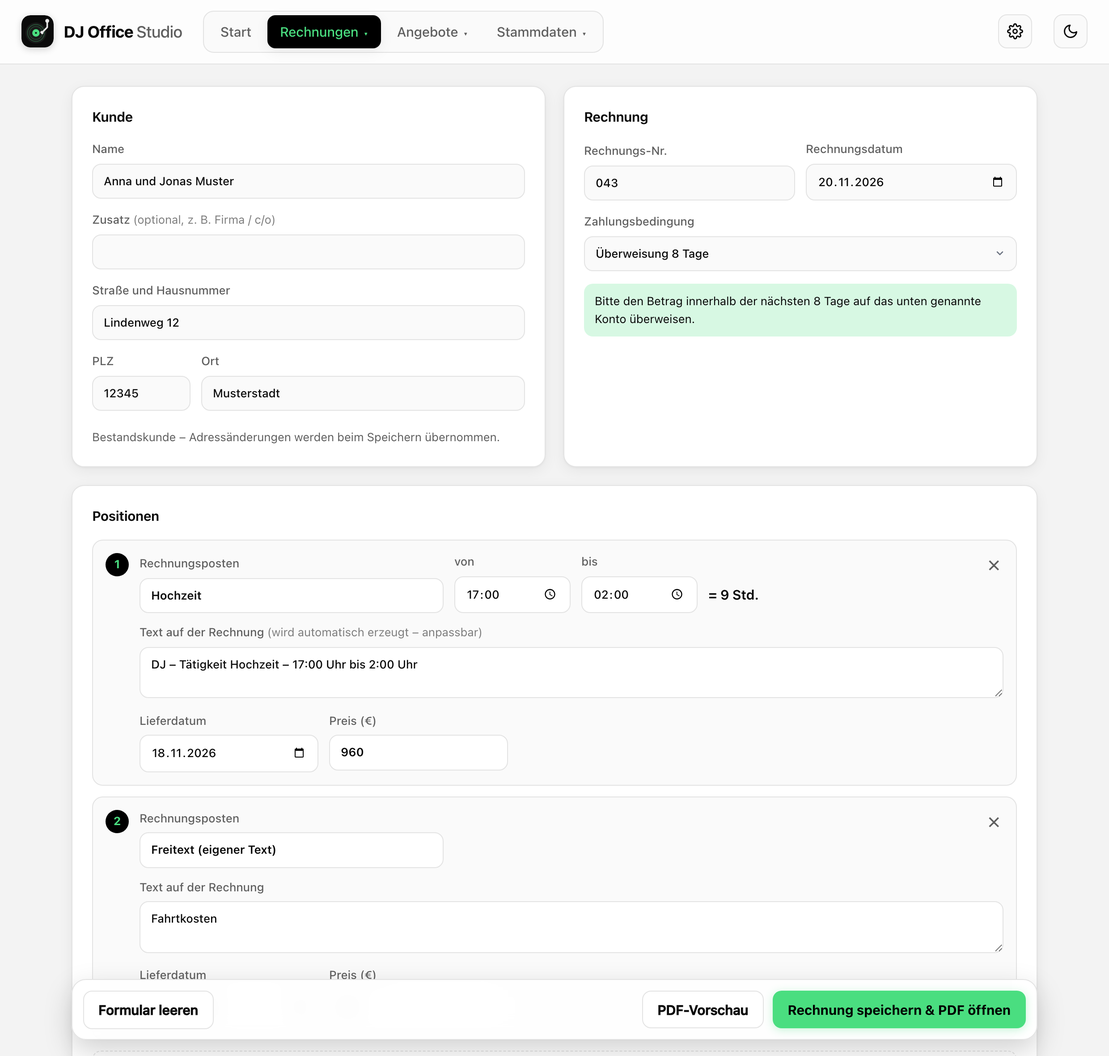
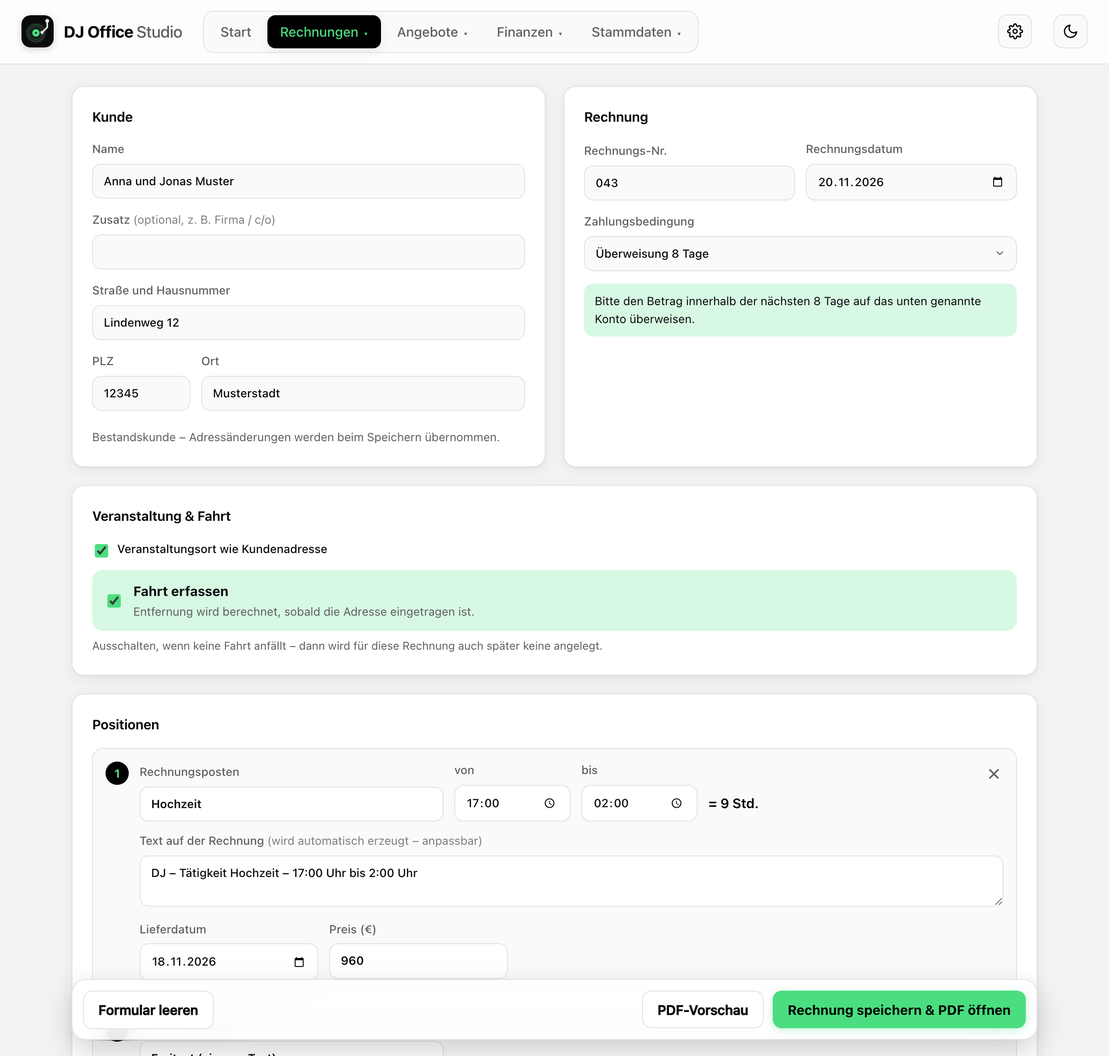
Version 1.1.0: Finanzen – Sicherung mit Belegen, README mit Finanzen-Bildern, Changelog

diff --git a/rechnungen/app/static/index.html b/rechnungen/app/static/index.html
@@ -470,7 +470,7 @@
           <div class="grid2 sicherung">
             <div>
               <strong>Sicherung</strong>
-              <p class="hint">Alle Daten – Kunden, Rechnungen, Angebote, Mahnungen, Einstellungen – in einer Datei. Am besten regelmäßig herunterladen und z. B. in der Cloud ablegen. Das E-Mail-Passwort ist nicht enthalten.</p>
+              <p class="hint">Alle Daten – Kunden, Rechnungen, Angebote, Mahnungen, Finanzen mit allen Belegen, Einstellungen – in einer Datei. Am besten regelmäßig herunterladen und z. B. in der Cloud ablegen. Das E-Mail-Passwort ist nicht enthalten.</p>
               <div class="row">
                 <button type="button" id="sicherung-btn" class="secondary">⇩ Sicherung herunterladen</button>
                 <button type="button" id="wiederherstellen-btn" class="secondary">⇪ Sicherung einspielen</button>

diff --git a/rechnungen/app/static/app.js b/rechnungen/app/static/app.js
@@ -358,7 +358,8 @@ $("#sicherung-datei").addEventListener("change", async e => {
     const daten = await res.json();
     if (!res.ok) throw new Error(daten.error || `Fehler ${res.status}`);
     const n = daten.anzahl;
-    alert(`Sicherung eingespielt: ${n.rechnungen} Rechnungen, ${n.kunden} Kunden${n.angebote != null ? `, ${n.angebote} Angebote` : ""}.`
+    alert(`Sicherung eingespielt: ${n.rechnungen} Rechnungen, ${n.kunden} Kunden${n.angebote != null ? `, ${n.angebote} Angebote` : ""}`
+      + `${n.ausgaben != null ? `, ${n.ausgaben} Ausgaben` : ""}${daten.belege ? `, ${daten.belege} Belege` : ""}.`
       + "\n\nDie App wird neu geladen.");
     location.reload();
   } catch (err) { toast("Einspielen fehlgeschlagen: " + err.message, true); }

diff --git a/docs/screenshots.py b/docs/screenshots.py
@@ -21,7 +21,10 @@ os.environ.update(DATA_DIR=tmp, OPTIONS_PATH=os.path.join(tmp, "options.json"))
 sys.path.insert(0, str(ROOT / "rechnungen" / "app"))
 
 import db  # noqa: E402
+import finanzen  # noqa: E402
 import main  # noqa: E402
+
+finanzen.HINTERGRUND = False   # keine Streckenberechnung im Hintergrund (kein Internet nötig)
 
 db.init()
 db.save_settings({
@@ -101,6 +104,45 @@ for k in db.list_items("kunden"):                                               
 r038 = next(r["id"] for r in db.list_invoices() if r["nummer"] == "038")
 c.post(f"/api/rechnungen/{r038}/stornieren")                                    # 038 → Stornorechnung 042
 
+# Finanzen: bezahlte Auftritte übers Jahr, Ausgaben (auch Kauf-Mails), Fahrten, ein Gerät mit Abschreibung
+FRUEHER = [(2, 14, "carla", "Geburtstagsfeier", 650), (4, 26, "verein", "Vereinsfeier", 700), (5, 23, "eva", "Hochzeit", 1100),
+           (6, 13, "firma", "Sommerfest", 850), (7, 18, "dora", "Geburtstagsfeier", 600), (8, 22, "anna", "Hochzeit", 1200),
+           (9, 12, "bernd", "Firmenfeier", 750)]
+nr = 31
+for monat, tag, kunde, anlass, preis in FRUEHER:
+    datum = date(heute.year, monat, tag)
+    if datum >= heute - timedelta(days=40):
+        continue
+    inv = rechnung(f"0{nr}", kunde, datum.isoformat(), [pos(f"DJ – Tätigkeit {anlass} – 19:00 Uhr bis 1:00 Uhr", datum.isoformat(), preis)],
+                   bezahlt=True)
+    c.put(f"/api/rechnungen/{inv}/bezahlt_am", json={"bezahlt_am": (datum + timedelta(days=6)).isoformat()})
+    nr += 1
+with db.connect() as con:                                                       # km wie vom Kartendienst berechnet
+    for i, (fid,) in enumerate(con.execute("SELECT id FROM fahrten ORDER BY datum DESC").fetchall()):
+        con.execute("UPDATE fahrten SET km_einfach = ? WHERE id = ?", ([24.6, 12.3, 38.1, 7.9, 52.4, 18.0, 31.2, 9.6][i % 8], fid))
+db.save_settings({"kartendienst": True})   # erst jetzt einschalten – beim Anlegen oben keine Abfrage ins Internet
+
+
+def ausgabe(datum, lieferant, betrag, kategorie, beschreibung=""):
+    r = c.post("/api/ausgaben", json={"belegdatum": datum, "lieferant": lieferant, "betrag": betrag, "kategorie": kategorie,
+                                      "beschreibung": beschreibung, "notiz": "Beleg in Papierform"})
+    assert r.status_code == 201, r.get_json()
+
+
+j = heute.year
+for datum, lieferant, betrag, kategorie, text in [
+        (f"{j}-01-15", "Mobilfunk Beispiel", 29.99, "telefon", "Handyvertrag"), (f"{j}-02-03", "Versicherung Muster", 186.40, "versicherung", "Betriebshaftpflicht"),
+        (f"{j}-03-12", "Musterhaus Technik", 2380, "anschaffung", "Aktivboxen (Paar)"), (f"{j}-04-08", "Kabelshop Probe", 64.80, "technik", "XLR-Kabel, Adapter"),
+        (f"{j}-05-20", "Druckerei Beispiel", 89.00, "werbung", "Flyer und Visitenkarten"), (f"{j}-07-02", "Musterhaus Technik", 149.00, "technik", "Funkmikrofon"),
+        (f"{j}-09-15", "Webhosting Muster", 59.88, "werbung", "Website (Jahr)")]:
+    if datum < heute.isoformat():
+        ausgabe(datum, lieferant, betrag, kategorie, text)
+BEISPIELMAILS = ROOT / "tests" / "beispiele" / "mails"
+mails = [("dateien", (open(BEISPIELMAILS / n, "rb"), n)) for n in ("beatport.eml", "apple.eml", "qobuz.eml")]
+neu = c.post("/api/ausgaben/belege", data={"dateien": [m[1] for m in mails]}, content_type="multipart/form-data").get_json()["neu"]
+for a in neu[:2]:                                                                   # zwei geprüft, eine wartet noch
+    c.put(f"/api/ausgaben/{a['id']}", json={"uebernehmen": True})
+
 from playwright.sync_api import sync_playwright  # noqa: E402
 from waitress import create_server  # noqa: E402
 
@@ -121,7 +163,7 @@ def oeffne(page, menue, tab):
 with sync_playwright() as p:
     browser = p.chromium.launch(args=["--lang=de-DE"])
     ctx = browser.new_context(viewport={"width": 1240, "height": 900}, device_scale_factor=2, locale="de-DE")
-    ctx.add_init_script("localStorage.setItem('theme','light')")
+    ctx.add_init_script("try { localStorage.setItem('theme','light') } catch (e) {}")
     page = ctx.new_page()
     page.on("pageerror", lambda e: fehler.append(str(e)))
 
@@ -156,9 +198,23 @@ with sync_playwright() as p:
     page.screenshot(path=str(ZIEL / "girocode.png"))
     page.click("#qr-zu")
 
+    # Finanzen
+    oeffne(page, "Finanzen", "finanzen")
+    page.screenshot(path=str(ZIEL / "finanzen.png"), full_page=True)
+    oeffne(page, "Finanzen", "ausgaben")
+    page.screenshot(path=str(ZIEL / "ausgaben.png"), full_page=True)
+    page.click("#alle-pruefen")
+    page.wait_for_timeout(1500)
+    page.mouse.move(5, 890)
+    page.screenshot(path=str(ZIEL / "beleg-pruefen.png"))
+    oeffne(page, "Finanzen", "fahrten")
+    page.screenshot(path=str(ZIEL / "fahrten.png"), full_page=True)
+    oeffne(page, "Finanzen", "euer")
+    page.screenshot(path=str(ZIEL / "euer.png"), full_page=True)
+
     # Rechnungseditor mit Bestandskunde und zwei Positionen
     ctx2 = browser.new_context(viewport={"width": 1240, "height": 1180}, device_scale_factor=2, locale="de-DE")
-    ctx2.add_init_script("localStorage.setItem('theme','light')")
+    ctx2.add_init_script("try { localStorage.setItem('theme','light') } catch (e) {}")
     page = ctx2.new_page()
     page.on("pageerror", lambda e: fehler.append(str(e)))
     page.goto(URL)

diff --git a/rechnungen/app/main.py b/rechnungen/app/main.py
@@ -611,7 +611,7 @@ def _sicherung_status(a):
 
 @app.get("/api/backup")
 def backup_download():
-    """Komplette Datenbank als ZIP (Kunden, Rechnungen, Angebote, Einstellungen …)."""
+    """Komplette Sicherung als ZIP: Datenbank (Kunden, Rechnungen, Angebote, Finanzen, Einstellungen) und alle Belege."""
     with tempfile.TemporaryDirectory() as tmp:
         pfad = os.path.join(tmp, "rechnungen.db")
         db.sichern(pfad)
@@ -619,8 +619,16 @@ def backup_download():
         buf = io.BytesIO()
         with zipfile.ZipFile(buf, "w", zipfile.ZIP_DEFLATED) as zf:
             zf.write(pfad, "rechnungen.db")
+            belege = os.path.join(db.DATA_DIR, "belege")
+            anzahl_belege = 0
+            for wurzel, _, dateien in os.walk(belege):
+                for n in sorted(dateien):
+                    voll = os.path.join(wurzel, n)
+                    zf.write(voll, "belege/" + os.path.relpath(voll, belege).replace(os.sep, "/"))
+                    anzahl_belege += 1
             zf.writestr("info.json", json.dumps({"app": "DJ Office Studio", "version": APP_VERSION,
-                                                 "erstellt": datetime.now().isoformat(timespec="seconds")}))
+                                                 "erstellt": datetime.now().isoformat(timespec="seconds"),
+                                                 "belege": anzahl_belege}))
     db.save_settings({"_letzte_sicherung": datetime.now().isoformat(timespec="seconds")})   # für die Erinnerung
     name = f"DJ-Office-Studio-Sicherung_{date.today():%Y-%m-%d}.zip"
     return Response(buf.getvalue(), mimetype="application/zip",
@@ -634,11 +642,13 @@ def backup_restore():
     with tempfile.TemporaryDirectory() as tmp:
         pfad = os.path.join(tmp, "upload.db")
         inhalt = datei.read()
+        belege_tmp = os.path.join(tmp, "belege")
         if inhalt[:2] == b"PK":   # ZIP
             try:
                 with zipfile.ZipFile(io.BytesIO(inhalt)) as zf:
                     with zf.open("rechnungen.db") as src, open(pfad, "wb") as dst:
                         shutil.copyfileobj(src, dst)
+                    _belege_entpacken(zf, belege_tmp)
             except (KeyError, zipfile.BadZipFile):
                 return _fehler("Die ZIP-Datei enthält keine Sicherung von DJ Office Studio.")
         else:
@@ -654,9 +664,38 @@ def backup_restore():
         db.sichern(vorher)
         letzte = db.get_settings().get("_letzte_sicherung")
         db.wiederherstellen(pfad)
+        belege = _belege_uebernehmen(belege_tmp)
         if letzte and letzte > (db.get_settings().get("_letzte_sicherung") or ""):
             db.save_settings({"_letzte_sicherung": letzte})   # Zeitpunkt der letzten Sicherung nicht zurückdrehen
-    return jsonify({"anzahl": anzahl, "vorher_gesichert": vorher})
+    return jsonify({"anzahl": anzahl, "belege": belege, "vorher_gesichert": vorher})
+
+
+def _belege_entpacken(zf, ziel):
+    """Nur Dateien unter belege/ aus der Sicherung, ohne Pfad-Tricks (.., absolute Pfade)."""
+    for info in zf.infolist():
+        name = info.filename
+        if info.is_dir() or not name.startswith("belege/"):
+            continue
+        teile = name.split("/")[1:]
+        if not teile or any(t in ("", ".", "..") or ":" in t or "\\" in t for t in teile):
+            continue
+        pfad = os.path.join(ziel, *teile)
+        os.makedirs(os.path.dirname(pfad), exist_ok=True)
+        with zf.open(info) as src, open(pfad, "wb") as dst:
+            shutil.copyfileobj(src, dst)
+
+
+def _belege_uebernehmen(quelle):
+    """Belege aus der Sicherung in den Datenordner kopieren. Vorhandene Dateien bleiben, nichts wird gelöscht."""
+    ziel = os.path.join(db.DATA_DIR, "belege")
+    anzahl = 0
+    for wurzel, _, dateien in os.walk(quelle):
+        for n in dateien:
+            rel = os.path.relpath(os.path.join(wurzel, n), quelle)
+            os.makedirs(os.path.dirname(os.path.join(ziel, rel)), exist_ok=True)
+            shutil.copy2(os.path.join(wurzel, n), os.path.join(ziel, rel))
+            anzahl += 1
+    return anzahl
 
 
 def _betrag(v):

diff --git a/tests/test_sicherung_export.py b/tests/test_sicherung_export.py
@@ -94,3 +94,41 @@ def test_desktop_kennt_automatische_sicherung(app_modul, client, tmp_path, monke
         (ordner / f"rechnungen_{tag}.db").write_bytes(b"")
     (ordner / "vor-wiederherstellung_2026-12-01_10-00-00.db").write_bytes(b"")
     assert client.get("/api/absender").get_json()["sicherung"]["automatisch"] == "2026-11-17"
+
+
+def test_sicherung_enthaelt_belege(client):
+    import db
+    mail = (os.path.join(os.path.dirname(__file__), "beispiele", "mails", "beatport.eml"))
+    with open(mail, "rb") as f:
+        inhalt = f.read()
+    a = client.post("/api/ausgaben/belege", data={"dateien": [(io.BytesIO(inhalt), "beatport.eml")]},
+                    content_type="multipart/form-data").get_json()["neu"][0]
+    r = client.get("/api/backup")
+    zf = zipfile.ZipFile(io.BytesIO(r.data))
+    belege = [n for n in zf.namelist() if n.startswith("belege/")]
+    assert len(belege) == 1 and zf.read(belege[0]) == inhalt
+    sicherung = r.data
+
+    # Beleg geht verloren (z. B. neuer Computer) → Sicherung einspielen holt ihn zurück
+    client.delete(f"/api/ausgaben/{a['id']}")
+    assert not os.path.exists(os.path.join(db.DATA_DIR, belege[0]))
+    r = client.post("/api/backup", data={"datei": (io.BytesIO(sicherung), "s.zip")}, content_type="multipart/form-data")
+    assert r.status_code == 200 and r.get_json()["belege"] == 1 and r.get_json()["anzahl"]["ausgaben"] == 1
+    assert client.get(f"/api/ausgaben/{a['id']}/beleg").data == inhalt
+
+
+def test_sicherung_mit_boesen_pfaden(client, tmp_path):
+    import db
+    gut = client.get("/api/backup").data
+    buf = io.BytesIO()
+    with zipfile.ZipFile(io.BytesIO(gut)) as alt, zipfile.ZipFile(buf, "w") as neu:
+        neu.writestr("rechnungen.db", alt.read("rechnungen.db"))
+        neu.writestr("belege/../../boese.txt", "x")
+        neu.writestr("belege/2026/../../../boese2.txt", "x")
+        neu.writestr("anderes/datei.txt", "x")
+        neu.writestr("belege/2026/1_ok.pdf", "%PDF")
+    r = client.post("/api/backup", data={"datei": (io.BytesIO(buf.getvalue()), "s.zip")}, content_type="multipart/form-data")
+    assert r.status_code == 200 and r.get_json()["belege"] == 1
+    assert os.path.exists(os.path.join(db.DATA_DIR, "belege", "2026", "1_ok.pdf"))
+    assert not any(os.path.exists(os.path.join(p, n)) for p in (db.DATA_DIR, os.path.dirname(db.DATA_DIR))
+                   for n in ("boese.txt", "boese2.txt", "anderes"))

diff --git a/desktop/build.py b/desktop/build.py
@@ -23,7 +23,7 @@ args = [
     "--noconfirm", "--clean",
     "--paths", str(APP),
     "--hidden-import", "main", "--hidden-import", "db", "--hidden-import", "pdf", "--hidden-import", "importer", "--hidden-import", "mail", "--hidden-import", "segno",
-    "--hidden-import", "finanzen", "--hidden-import", "belege", "--hidden-import", "extract_msg", "--hidden-import", "pillow_heif",
+    "--hidden-import", "finanzen", "--hidden-import", "belege", "--hidden-import", "strecken", "--hidden-import", "extract_msg", "--hidden-import", "pillow_heif",
     "--collect-data", "extract_msg",
     "--add-data", f"{APP / 'static'}{SEP}static",
     "--add-data", f"{ROOT / 'rechnungen' / 'config.yaml'}{SEP}.",

diff --git a/rechnungen/app/db.py b/rechnungen/app/db.py
@@ -483,7 +483,7 @@ def pruefe_sicherung(pfad):
         if not {"rechnungen", "kunden"} <= tabellen:
             raise ValueError("Die Datei enthält keine Daten von DJ Office Studio.")
         return {t: con.execute(f"SELECT COUNT(*) FROM {t}").fetchone()[0]
-                for t in ("rechnungen", "kunden", "angebote") if t in tabellen}
+                for t in ("rechnungen", "kunden", "angebote", "ausgaben") if t in tabellen}
     except sqlite3.DatabaseError as e:
         raise ValueError("Die Datei ist keine gültige Sicherung.") from e
     finally:

diff --git a/README.md b/README.md
@@ -2,13 +2,13 @@
 
 # DJ Office Studio
 
-DJ Office Studio ist eine App zum Schreiben von DJ-Rechnungen und -Angeboten – als App für Home Assistant oder eigenständig unter Windows und macOS. Kunden auswählen, Rechnungsposten und Uhrzeiten eintragen, Preis festlegen – fertig ist das PDF.
+DJ Office Studio ist eine App zum Schreiben von DJ-Rechnungen und -Angeboten – als App für Home Assistant oder eigenständig unter Windows und macOS. Kunden auswählen, Rechnungsposten und Uhrzeiten eintragen, Preis festlegen – fertig ist das PDF. Dazu kommen die **Finanzen**: Ausgaben mit Belegen, gefahrene Kilometer, Abschreibungen und eine Einnahmen-Überschuss-Rechnung (EÜR) mit Export für den Steuerberater.
 
 ![Screenshot: Rechnung erstellen](docs/bilder/rechnungseditor.png)
 
 ## Funktionen
 
-- **Startseite** mit Kacheln für alle Aktionen der App und dem aktuellen Stand: offene Rechnungen mit Restzeit und Warnung bei Überfälligkeit, offene Angebote mit Restlaufzeit, Zeit seit der letzten Datensicherung, Umsatz nach Monat/Jahr und die letzten Rechnungen.
+- **Startseite** mit Kacheln für alle Aktionen der App und dem aktuellen Stand: offene Rechnungen mit Restzeit und Warnung bei Überfälligkeit, offene Angebote mit Restlaufzeit, Gewinn des laufenden Jahres, Zeit seit der letzten Datensicherung, Umsatz nach Monat/Jahr und die letzten Rechnungen.
 - **Rechnungseditor**
   - Kunde mit Autovervollständigung aus bisherigen Kunden; neue Kunden werden beim Speichern automatisch angelegt
   - Positionen per **Rechnungsposten** (Hochzeit, Geburtstag, Firmenfeier, …) mit **von/bis-Zeiten** – der Rechnungstext wird daraus erzeugt, z. B. „DJ – Tätigkeit Hochzeit – 17:00 Uhr bis 2:00 Uhr“
@@ -26,15 +26,21 @@ DJ Office Studio ist eine App zum Schreiben von DJ-Rechnungen und -Angeboten –
 - **Umsatzsteuer**: Für Kleinunternehmer ohne Umsatzsteuer mit Hinweis nach § 19 UStG. Ohne Kleinunternehmerregelung sind die Positionspreise Nettopreise; Rechnung und Angebot weisen Nettobetrag, Umsatzsteuer (19 % oder 7 %) und Gesamtbetrag aus, der Export enthält Netto, Steuersatz und Steuer. Die Steuer wird je Beleg gespeichert – ein späterer Wechsel in den Einstellungen ändert bereits geschriebene Rechnungen nicht.
 - **Kopieren**: Eine Rechnung oder ein Angebot mit einem Klick als neuen Beleg übernehmen (Kunde, Texte, Preise, Zahlungsbedingung) – praktisch für Stammkunden und jährlich wiederkehrende Feiern. Neue Nummer, heutiges Datum, das Datum der Veranstaltung trägt man neu ein.
 - **QR-Code zum Bezahlen (GiroCode)**: Auf Rechnungen, Zahlungserinnerungen und Mahnungen steht neben der Zahlungsbedingung ein QR-Code. Der Kunde scannt ihn mit seiner Banking-App, und Empfänger, IBAN, Betrag und Verwendungszweck („Rechnung 037“) sind schon ausgefüllt. Bei offenen Rechnungen zeigt die App den Code auch groß auf dem Bildschirm an, z. B. wenn direkt nach der Feier bezahlt wird. Nicht auf Angeboten, Stornorechnungen und bei „Bar erhalten“ / „Bereits bezahlt“; abschaltbar unter ⚙ Einstellungen.
-- **Datensicherung & Export**: Unter ⚙ Einstellungen alle Daten als eine Sicherungsdatei herunterladen bzw. wieder einspielen. Die Startseite zeigt, wie lange die letzte Sicherung her ist, und erinnert nach einstellbarer Zeit (Standard 30 Tage) an eine neue. Dazu ein **Export für den Steuerberater**: alle Rechnungen eines Jahres als Excel-Tabelle (CSV, mit Bezahlt-Datum, Stornos und ggf. Umsatzsteuer) plus PDFs als ZIP. Die Desktop-Version sichert zusätzlich automatisch einmal pro Tag.
+- **Datensicherung & Export**: Unter ⚙ Einstellungen alle Daten samt Ausgaben-Belegen als eine Sicherungsdatei herunterladen bzw. wieder einspielen. Die Startseite zeigt, wie lange die letzte Sicherung her ist, und erinnert nach einstellbarer Zeit (Standard 30 Tage) an eine neue. Dazu ein **Export für den Steuerberater**: alle Rechnungen eines Jahres als Excel-Tabelle (CSV, mit Bezahlt-Datum, Stornos und ggf. Umsatzsteuer) plus PDFs, dazu EÜR, Ausgaben, Fahrten, Anlagenverzeichnis und alle Belege – als ein ZIP. Die Desktop-Version sichert zusätzlich automatisch einmal pro Tag.
 - **Angebote**: Im selben Editor wie Rechnungen (Kunde, Rechnungsposten mit von/bis-Zeiten, Preise) – mit eigenem Nummernkreis, Angebotsdatum, **Gültig bis** (Bindefrist, Standard 30 Tage), optionaler Zahlungsbedingung und freien **Hinweisen** (z. B. Verlängerungsstunde, Leistungsumfang, GEMA). Das PDF hat dasselbe Layout wie die Rechnung (`Angebot_001_120627.pdf`). Oben in der Angebotsansicht und auf der Startseite: **Offene Angebote** mit Angebotsdatum und Restlaufzeit („noch 12 Tage“, „seit 3 Tagen abgelaufen“), auf der Startseite zusätzlich ein Hinweis, wenn ein Angebot in den nächsten 3 Tagen abläuft. In der Angebotsliste: mehrere markieren und als ZIP herunterladen oder an Paperless senden, Status (offen / angenommen / abgelehnt), Restlaufzeit bzw. „abgelaufen“ und **→ Rechnung**, das Kunde und Positionen in eine neue Rechnung übernimmt und das Angebot als angenommen markiert.
 - **Import alter Rechnungen und Angebote**: Bisherige PDFs hochladen (gemischt möglich – die App erkennt Rechnung oder Angebot selbst). Empfänger, Positionen und Vorschläge für Rechnungsposten werden erkannt und können übernommen werden, optional auch die Rechnungen selbst als Archiv und die Angebote (mit „gültig bis“ und Hinweisen) in die Angebotsliste.
+- **Finanzen**
+  - **Ausgaben mit Belegen**: PDF-Rechnungen, Fotos (JPG, PNG, HEIC) und Kauf-Mails (.eml, .msg – z. B. von Beatport, iTunes/Apple, Amazon, Qobuz, Bandcamp) per Drag & Drop hochladen. Die App liest Lieferant, Datum, Betrag und Umsatzsteuer aus und schlägt eine Kategorie vor; man prüft nur noch und übernimmt. Die Originale bleiben unverändert gespeichert, doppelte Belege werden erkannt. Ausgaben ohne Beleg (z. B. Parkautomat) gehen mit Notiz. Privatanteil in Prozent (z. B. Handyvertrag).
+  - **Fahrten**: Zu jeder Rechnung wird automatisch die Hin- und Rückfahrt zum Veranstaltungsort erfasst – auf Wunsch mit Kilometern von OpenStreetMap, sonst von Hand. Pro Rechnung abwählbar, eigene Fahrten (z. B. zum Musikladen) lassen sich ergänzen. Mit Privatfahrzeug zählt die Kilometerpauschale (Standard 0,30 €/km).
+  - **Anschaffungen & Abschreibung**: Geräte über 800 € netto werden über die Nutzungsdauer abgeschrieben (linear, monatsgenau; Computer im Kaufjahr voll). Anlagenverzeichnis mit Restwerten, Übernahme von Geräten aus Vorjahren und Verkauf/Ausscheiden.
+  - **Übersicht** mit Einnahmen, Ausgaben und Gewinn des Jahres, Diagramm je Monat (auch als Tabelle) und Ausgaben nach Kategorie.
+  - **EÜR & Export**: Einnahmen-Überschuss-Rechnung nach Zahlungseingang und -ausgang mit Vorschlag für die Zeilen der Anlage EÜR, Prüfliste vor dem Export (ungeprüfte Belege, fehlende Bezahlt-Daten, fehlende Kilometer …) und ein ZIP für den Steuerberater mit allen Tabellen, Rechnungen und Belegen. Sonstige Einnahmen ohne Rechnung (z. B. Verkauf eines alten Geräts) lassen sich ergänzen.
 - **Stammdaten** für Kunden, Rechnungsposten und Zahlungsbedingungen.
 - Helles und dunkles Design (folgt der Geräteeinstellung, umschaltbar oben rechts), nutzbar am Computer, Tablet und Handy.
 
 ## Bedienung
 
-Oben in der Kopfzeile gibt es auf jeder Seite das Menü: **Start**, **Rechnungen** (Neue Rechnung, Rechnungen), **Angebote** (Neues Angebot, Angebote) und **Stammdaten** (Kunden, Rechnungsposten, Zahlungsbedingungen).
+Oben in der Kopfzeile gibt es auf jeder Seite das Menü: **Start**, **Rechnungen** (Neue Rechnung, Rechnungen), **Angebote** (Neues Angebot, Angebote), **Finanzen** (Übersicht, Ausgaben, Fahrten, Anschaffungen, EÜR & Export) und **Stammdaten** (Kunden, Rechnungsposten, Zahlungsbedingungen).
 
 
 **Start:** Die Startseite öffnet sich beim Aufruf. Über das Menü oder die Kacheln geht es direkt zu jedem Bereich der App (inkl. Import alter Rechnungen und Angebote). Ein Klick auf das Logo führt zurück zur Startseite. Darunter steht der aktuelle Stand: offene Rechnungen mit Restzeit, offene Angebote mit Restlaufzeit, die Zeit seit der letzten Datensicherung (mit **Jetzt sichern**), Umsatz und die letzten Rechnungen – plus Hinweise bei überfälligen Rechnungen und bald ablaufenden Angeboten.
@@ -63,6 +69,28 @@ Oben in der Kopfzeile gibt es auf jeder Seite das Menü: **Start**, **Rechnungen
 
 **Alte Rechnungen und Angebote importieren:** Unter **Rechnungen** (Archiv) auf **Alte Rechnungen importieren** bzw. unter **Angebote** auf **Alte Angebote importieren** klicken und PDFs hineinziehen – gemischt möglich. Danach auswählen, welche Empfänger, Rechnungsposten, Rechnungen und Angebote übernommen werden. Erkannt werden PDFs mit echtem Text, die so aufgebaut sind wie die PDFs der App (Absenderzeile mit „|“, Adresse, „Rechnung Nr.“ bzw. „Angebot“, Tabelle, „Gesamt“). Eingescannte Dokumente werden nicht unterstützt.
 
+### Finanzen
+
+**Übersicht:** Einnahmen, Ausgaben und Gewinn des gewählten Jahres – so gerechnet wie in der EÜR: Einnahmen zählen am Tag des Zahlungseingangs, Ausgaben am Tag der Bezahlung. Darunter Hinweise auf offene Punkte, das Diagramm je Monat (Maus darüber zeigt die Werte, **Als Tabelle** zeigt alle Zahlen) und die Ausgaben nach Kategorie. Die Abschreibung steht als Jahresbetrag im Dezember.
+
+![Screenshot: Finanzen – Übersicht](docs/bilder/finanzen.png)
+
+**Ausgaben:** Belege in das Feld ziehen – PDFs, Fotos oder Kauf-Mails direkt aus dem Mailprogramm (in Outlook, Apple Mail, Thunderbird die Mail aus der Liste auf das Feld ziehen bzw. als .eml/.msg speichern). Neue Belege stehen unter **Neu – bitte prüfen**. **Alle nacheinander prüfen** öffnet sie der Reihe nach: links der Beleg, rechts die erkannten Angaben. Wo der Betrag gefunden wurde, steht darunter („erkannt: Gesamt … 3,63 €“). Kurz vergleichen, ggf. korrigieren, **Übernehmen**. Erst übernommene Ausgaben zählen in der EÜR. Viele kleine Musikkäufe lassen sich in der Liste je Monat und Shop **zusammengefasst** anzeigen.
+
+![Screenshot: Ausgaben](docs/bilder/ausgaben.png)
+
+![Screenshot: Beleg prüfen](docs/bilder/beleg-pruefen.png)
+
+**Fahrten:** Im Rechnungseditor gibt es die Karte **Veranstaltung & Fahrt** (Veranstaltungsort, Standard: Adresse des Kunden) und den Schalter **Fahrt erfassen**. Beim Speichern der Rechnung legt die App die Fahrt an; ist unter ⚙ Einstellungen → Fahrten der Kartendienst eingeschaltet, berechnet sie die Strecke über OpenStreetMap. Dafür werden Startadresse und Veranstaltungsort an die öffentlichen Dienste von OpenStreetMap (Nominatim, OSRM) geschickt – sonst nichts; ausgeschaltet trägt man die Kilometer selbst ein. Kilometer lassen sich in der Liste korrigieren („korrigiert“), Fahrten ohne Rechnung über **Fahrt ergänzen** hinzufügen. Mit Betriebsfahrzeug zählen statt der Pauschale die echten Kosten (Tanken, Werkstatt …) als Ausgaben.
+
+![Screenshot: Fahrten](docs/bilder/fahrten.png)
+
+**Anschaffungen:** Wird eine Ausgabe als „Anschaffung über 800 €“ eingeordnet, landet das Gerät automatisch im Anlagenverzeichnis und wird abgeschrieben (Nutzungsdauer vorgeschlagen, änderbar). Geräte aus früheren Jahren übernimmt man mit **Gerät aus Vorjahren übernehmen** und dem Restwert zum 1.1. Wird ein Gerät verkauft oder entsorgt, trägt man das Datum und ggf. den Erlös ein.
+
+**EÜR & Export:** Die EÜR des Jahres mit allen Einnahmen- und Ausgabenposten und dem Gewinn. Die Prüfliste daneben zeigt, was vor dem Export noch fehlt – z. B. ungeprüfte Belege oder bezahlte Rechnungen ohne Bezahlt-Datum (alte Importe; mit **nachtragen** direkt ergänzen). **Export herunterladen** erzeugt das ZIP für den Steuerberater. Die Zuordnung zu den Zeilen der Anlage EÜR ist ein Vorschlag – bitte mit dem Steuerberater abgleichen.
+
+![Screenshot: EÜR & Export](docs/bilder/euer.png)
+
 ## Einstellungen
 
 Alle Einstellungen werden **in der App** gemacht: oben rechts auf **⚙** klicken.
@@ -76,6 +104,7 @@ Alle Einstellungen werden **in der App** gemacht: oben rechts auf **⚙** klicke
 | Steuer | Steuernummer, Kleinunternehmer (§ 19 UStG) – Hinweis auf die Steuerbefreiung (ab Belegdatum 18.11.2026: „Steuerbefreiung nach § 19 UStG (Kleinunternehmerregelung)“, ältere Belege behalten ihre ursprüngliche Formulierung); ohne Kleinunternehmerregelung: Umsatzsteuersatz (19 % / 7 %) und optional USt-IdNr. |
 | Nummern & Fristen | Rechnungen ab Nr., Angebote ab Nr. (danach wird automatisch hochgezählt), Gültigkeit neuer Angebote in Tagen |
 | Ablage & Paperless | Ordner für PDF-Kopien (Standard `/share/rechnungen`), „Paperless-ngx ist installiert“, Paperless-Eingangsordner |
+| Fahrten | Fahrzeug (Privatfahrzeug mit Kilometerpauschale / Betriebsfahrzeug), Kilometersatz, Startadresse (Standard: eigene Adresse), Kartendienst OpenStreetMap ein/aus, „Fahrt erfassen“ bei neuen Rechnungen |
 | E-Mail-Versand | eigene E-Mail-Adresse, Anbieter-Vorlage, Postausgangsserver (SMTP), Port, Verschlüsselung, Benutzername, Passwort, „Antworten an“, Kopie an mich, Textvorlagen für Rechnung / Angebot / Mahnung |
 
 Unten auf der Seite steht außerdem die installierte Version mit Link zum Changelog.
@@ -150,9 +179,10 @@ Alternativ im Terminal: `xattr -dr com.apple.quarantine "/Applications/DJ Office
 | Was | Wo |
 |---|---|
 | Kunden, Rechnungsposten, Zahlungsbedingungen, Rechnungen, Angebote, Einstellungen | SQLite-Datenbank `rechnungen.db` im App-Datenordner (`/data`) |
+| Ausgaben-Belege (Originale) | Ordner `belege/` im App-Datenordner, sortiert nach Jahr |
 | PDF-Kopien | Ordner aus den Einstellungen, standardmäßig `/share/rechnungen` (z. B. per Samba erreichbar) |
 
-Beides ist in den normalen Home-Assistant-Backups enthalten. Die Startseite zeigt in der Karte **Datensicherung**, wann zuletzt eine Sicherung heruntergeladen wurde, und färbt sich rot, sobald die eingestellte Zeit (⚙ Einstellungen → Datensicherung & Export, Standard 30 Tage, 0 = keine Erinnerung) überschritten ist – mit **Jetzt sichern** direkt daneben. Zusätzlich gibt es unter **⚙ Einstellungen → Datensicherung & Export** eine Sicherung zum Herunterladen und Einspielen (vor dem Einspielen sichert die App den bisherigen Stand automatisch unter `sicherungen/`).
+Alles ist in den normalen Home-Assistant-Backups enthalten. Die Startseite zeigt in der Karte **Datensicherung**, wann zuletzt eine Sicherung heruntergeladen wurde, und färbt sich rot, sobald die eingestellte Zeit (⚙ Einstellungen → Datensicherung & Export, Standard 30 Tage, 0 = keine Erinnerung) überschritten ist – mit **Jetzt sichern** direkt daneben. Zusätzlich gibt es unter **⚙ Einstellungen → Datensicherung & Export** eine Sicherung zum Herunterladen und Einspielen – mit Datenbank und allen Belegen (vor dem Einspielen sichert die App den bisherigen Stand automatisch unter `sicherungen/`).
 
 In der **Desktop-Version** liegt alles im Dokumente-Ordner unter `DJ Office Studio`; die App legt dort in `Daten/Sicherungen` einmal pro Tag automatisch eine Kopie der Datenbank ab (die letzten 14 bleiben erhalten).
 
@@ -227,6 +257,9 @@ rechnungen/
     pdf.py               PDF-Erzeugung (fpdf2) inkl. QR-Code zum Bezahlen (segno)
     importer.py          Auslesen alter Rechnungs- und Angebots-PDFs (pypdf)
     mail.py              E-Mail-Versand per SMTP, Textvorlagen
+    finanzen.py          Finanzen: Ausgaben, Fahrten, Anschaffungen/Abschreibung, EÜR, Export
+    belege.py            Auslesen von Belegen (PDF, Fotos, Kauf-Mails .eml/.msg)
+    strecken.py          Entfernungen über OpenStreetMap (Nominatim, OSRM) mit Zwischenspeicher
     static/              Oberfläche (HTML, CSS, JavaScript)
 desktop/
   start.py               Starter der Desktop-Version (Server + eigenes App-Fenster mit pywebview, Daten im Dokumente-Ordner)
@@ -238,7 +271,7 @@ desktop/
 docs/
   screenshots.py         Erzeugt die README-Screenshots (docs/bilder/) mit Beispieldaten
 tests/                   Automatische Tests (pytest): API, PDFs, Pflichtangaben, Umsatzsteuer, QR-Code, Festschreiben/Storno,
-                         Mahnungen, E-Mail-Versand, Sicherung, Import …
+                         Mahnungen, E-Mail-Versand, Sicherung, Import, Belege, Fahrten, Abschreibung, EÜR …
 ```
 
 ### Neue Version veröffentlichen

diff --git a/rechnungen/CHANGELOG.md b/rechnungen/CHANGELOG.md
@@ -2,6 +2,31 @@
 
 Alle Änderungen an DJ Office Studio. Neueste Version oben.
 
+## 1.1.0 – 2026-11-20
+
+**Neu: Finanzen.** Ein neuer Menüpunkt mit allem, was für die Steuererklärung gebraucht wird – Ausgaben, Fahrten, Abschreibungen und die Einnahmen-Überschuss-Rechnung (EÜR) samt Export für den Steuerberater.
+
+### Neu
+- **Ausgaben mit Belegen**: PDF-Rechnungen, Fotos (JPG, PNG, HEIC) und Kauf-Mails (.eml, .msg) per Drag & Drop hochladen – auch mehrere auf einmal.
+  - Die App erkennt Lieferant, Datum, Betrag und Umsatzsteuer und zeigt, wo sie den Betrag gefunden hat.
+  - Shops wie Beatport, iTunes/Apple, Amazon, Qobuz und Bandcamp werden am Absender erkannt; die Kategorie wird vorgeschlagen und je Lieferant gelernt.
+  - **Prüfen-Ansicht**: links der Beleg (Mails als sichere Vorschau), rechts die erkannten Angaben – „Alle nacheinander prüfen“.
+  - Originale bleiben unverändert gespeichert, doppelte Belege werden erkannt.
+  - Ausgaben ohne Beleg mit Notiz, Privatanteil in Prozent, Musikkäufe je Monat zusammengefasst.
+- **Fahrten**: Zu jeder Rechnung automatisch die Hin- und Rückfahrt zum Veranstaltungsort.
+  - Neue Karte „Veranstaltung & Fahrt“ im Editor: abweichender Veranstaltungsort (steht auch auf dem PDF) und „Fahrt erfassen“ pro Rechnung abwählbar.
+  - Kilometer optional über OpenStreetMap (ausschaltbar; dann von Hand), korrigierbar, eigene Fahrten ergänzbar.
+  - Privatfahrzeug mit Kilometerpauschale (Satz einstellbar) oder Betriebsfahrzeug.
+- **Anschaffungen & Abschreibung**: Geräte über 800 € netto werden linear und monatsgenau abgeschrieben (Computer im Kaufjahr voll). Anlagenverzeichnis, Geräte aus Vorjahren mit Restwert übernehmen, Verkauf/Ausscheiden. Hinweis beim Erfassen, wenn ein Betrag über bzw. unter der 800-€-Grenze liegt.
+- **Übersicht**: Einnahmen, Ausgaben und Gewinn des Jahres, Diagramm je Monat (auch als Tabelle), Ausgaben nach Kategorie.
+- **EÜR & Export**: EÜR nach Zahlungseingang und -ausgang mit Vorschlag für die Zeilen der Anlage EÜR (Kleinunternehmer brutto, sonst netto mit Umsatzsteuer und Vorsteuer). Prüfliste vor dem Export, Bezahlt-Datum für alte Importe nachtragen, sonstige Einnahmen ohne Rechnung.
+- **Export für den Steuerberater** enthält jetzt zusätzlich EÜR, Einnahmen, Ausgaben, Fahrten und Anlagenverzeichnis als Excel-Tabellen sowie alle Belege (Dateiname `Export_<Jahr>.zip`).
+- **Startseite**: neue Karte „Finanzen“ mit dem Gewinn des laufenden Jahres und einem Hinweis auf ungeprüfte Belege.
+- **Einstellungen → Fahrten**: Fahrzeug, Kilometersatz, Startadresse, Kartendienst, „Fahrt erfassen“ als Standard.
+
+### Geändert
+- Die **Sicherung** enthält jetzt auch alle Ausgaben-Belege; beim Einspielen werden sie wiederhergestellt.
+
 ## 1.0.2 – 2026-11-20
 
 ### Behoben
